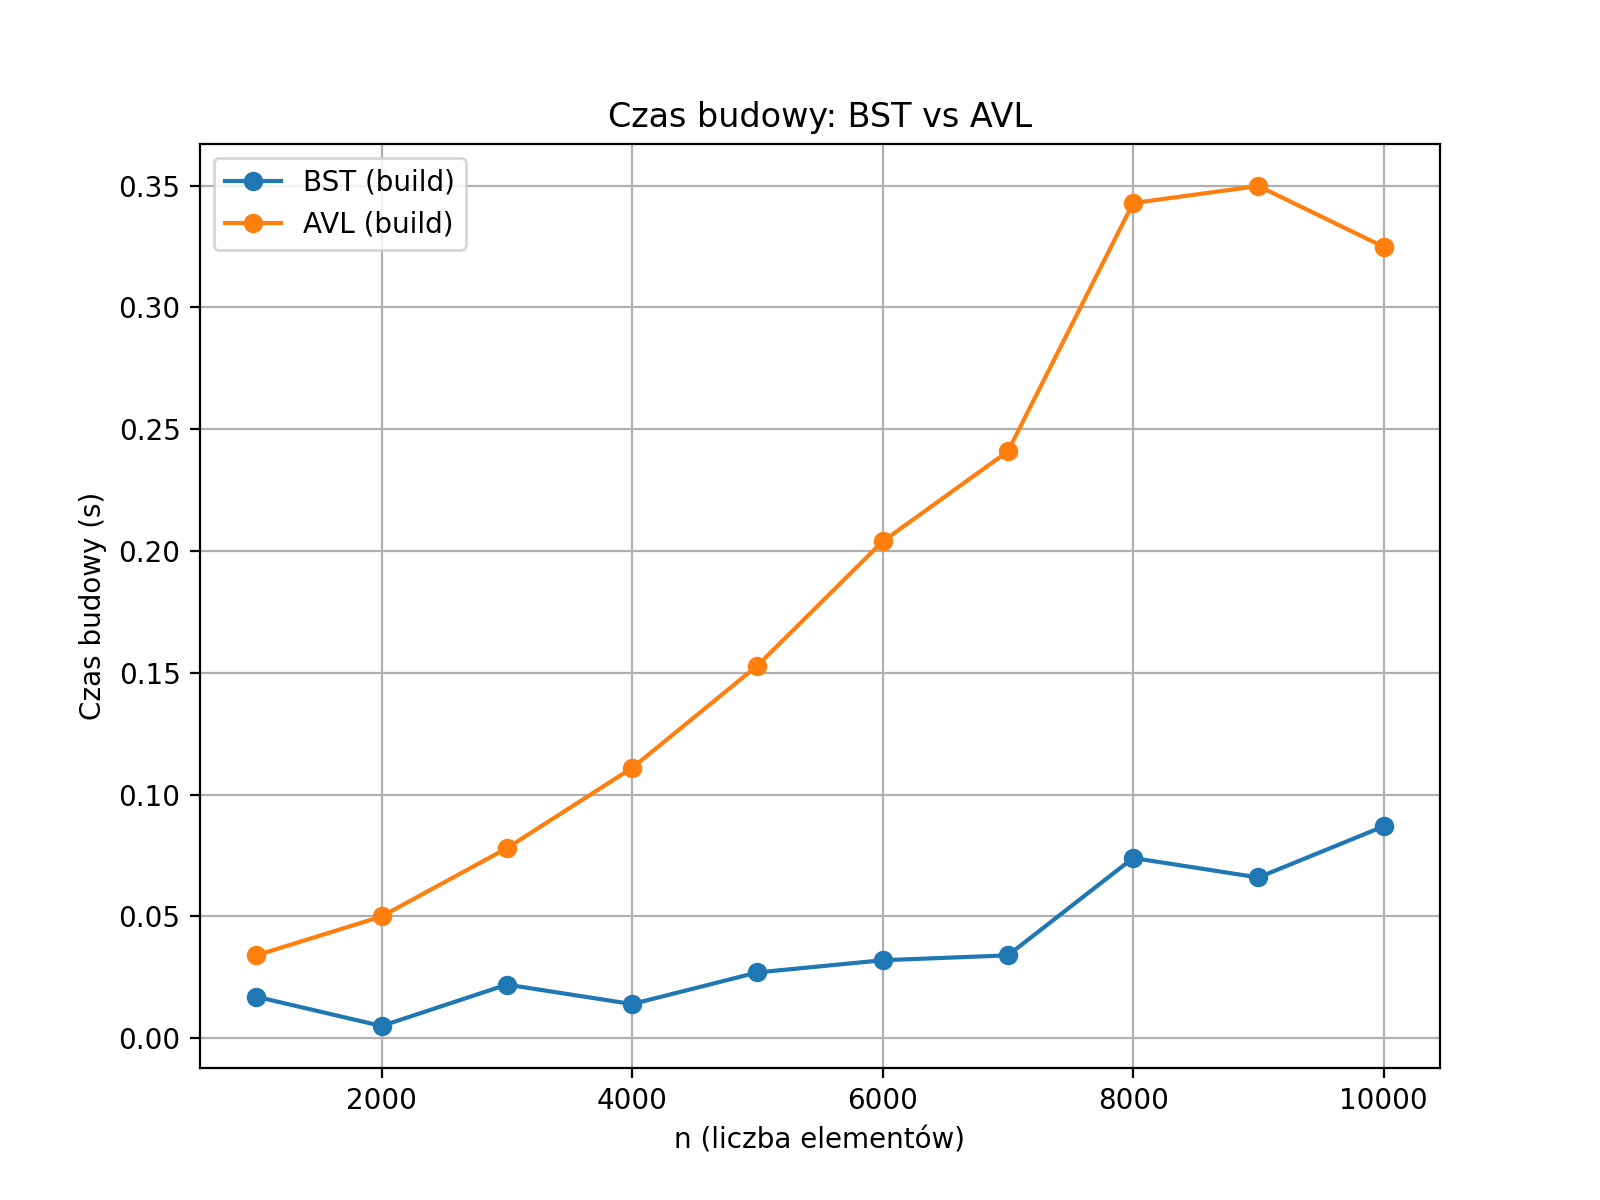
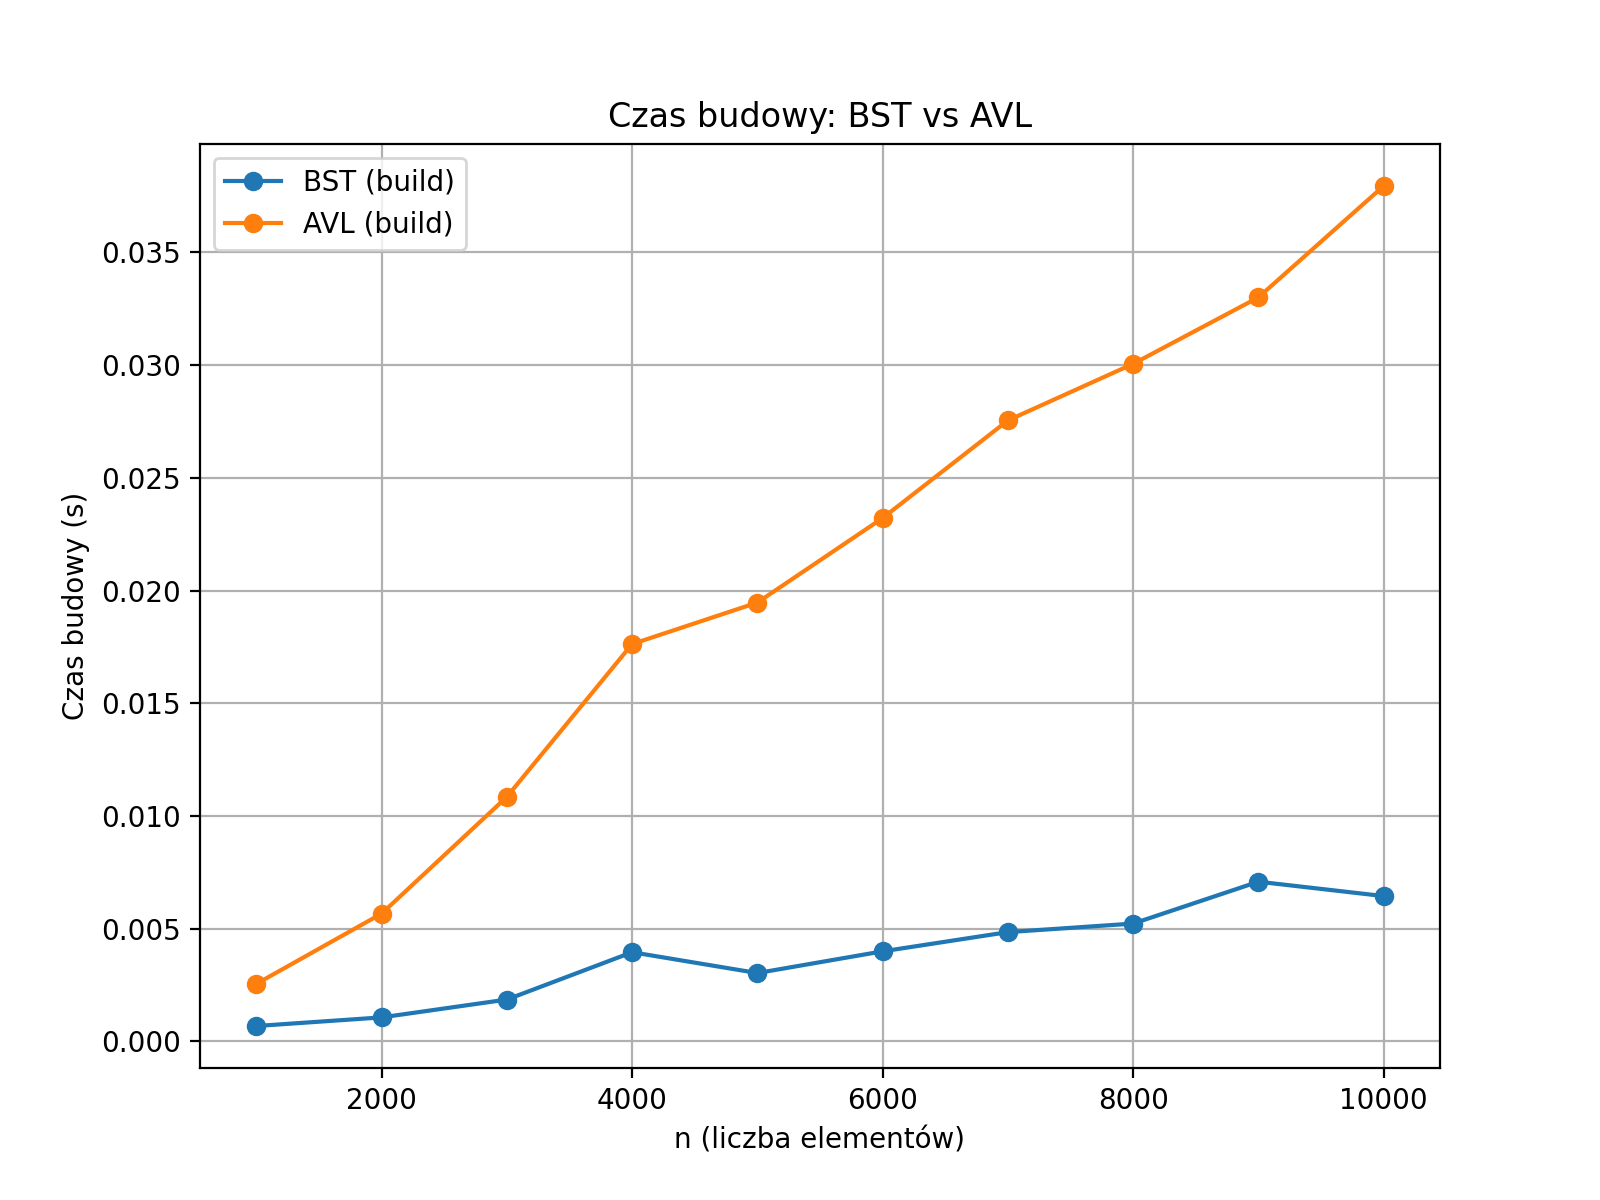
poprawa wizualizacji przykładowych drzew (display_trees_example.py i tree_visualizer.py) i komentarze do trees.py

diff --git a/LAB4_DRZEWA/trees.py b/LAB4_DRZEWA/trees.py
@@ -5,51 +5,57 @@
 
 from collections import deque
 
+# ------------------------------
+#           B S T   
+# ------------------------------
+
 class BSTNode:
     __slots__ = ("key", "left", "right")
     def __init__(self, key):
-        self.key = key
-        self.left = None
-        self.right = None
+        self.key = key          # wartość klucza (porównujemy wg niego)
+        self.left = None        # wskaźnik na lewe poddrzewo
+        self.right = None       # wskaźnik na prawe poddrzewo
 
 class BST:
     def __init__(self):
-        self.root = None
+        self.root = None        # korzeń drzewa
 
-    # wstawianie (iteracyjnie)
+    # wstawianie iteracyjne do BST
+    # zasada: mniejsze na lewo, większe/ równe na prawo
     def insert(self, key):
-        if self.root is None:
+        if self.root is None:   # przypadek gdy drzewo jest puste
             self.root = BSTNode(key)
             return
         cur = self.root
         while True:
-            if key < cur.key:
+            if key < cur.key:   # idziemy w lewo
                 if cur.left is None:
                     cur.left = BSTNode(key)
                     return
                 cur = cur.left
-            else:
+            else:               # idziemy w prawo (duplikaty też tu)
                 if cur.right is None:
                     cur.right = BSTNode(key)
                     return
                 cur = cur.right
 
-    # wyszukiwanie (zwraca True/False)
+    # wyszukiwanie wartości w drzewie
     def search(self, key):
         cur = self.root
         while cur:
             if key == cur.key:
-                return True
+                return True     # znaleziono!
             elif key < cur.key:
-                cur = cur.left
+                cur = cur.left  # szukamy w lewym poddrzewie
             else:
-                cur = cur.right
-        return False
+                cur = cur.right # szukamy w prawym poddrzewie
+        return False            # nie ma klucza w drzewie
 
-    # usuwanie elementu (standardowy algorytm)
+    # usuwanie elementu – wywołuje rekurencyjną pomocniczą funkcję
     def delete(self, key):
         self.root = self._delete_rec(self.root, key)
 
+    # klasyczny algorytm usuwania z BST
     def _delete_rec(self, node, key):
         if node is None:
             return None
@@ -58,55 +64,30 @@ class BST:
         elif key > node.key:
             node.right = self._delete_rec(node.right, key)
         else:
-            # node to delete
+            # przypadek: znaleziono node do usunięcia
+            # 1) brak dzieci
             if node.left is None and node.right is None:
                 return None
+            # 2) jedno dziecko
             if node.left is None:
                 return node.right
             if node.right is None:
                 return node.left
-            # two children: find successor (min in right subtree)
+            # 3) dwoje dzieci: bierzemy następnika (minimum z prawego poddrzewa)
             succ = node.right
             while succ.left:
                 succ = succ.left
-            node.key = succ.key
+            node.key = succ.key  # podmieniamy klucz na następnika
             node.right = self._delete_rec(node.right, succ.key)
         return node
 
-    # display: sideways (root on left)
-    def display_sideways(self, node=None, indent=0):
-        if node is None:
-            node = self.root
-        def _rec(n, level):
-            if n is None:
-                return
-            _rec(n.right, level + 1)
-            print("    " * level + str(n.key))
-            _rec(n.left, level + 1)
-        _rec(node, indent)
 
-    # display: level-order list of lists
-    def display_levels(self):
-        res = []
-        if not self.root:
-            print("Empty")
-            return
-        q = deque([self.root])
-        while q:
-            level_size = len(q)
-            level = []
-            for _ in range(level_size):
-                n = q.popleft()
-                level.append(n.key)
-                if n.left:
-                    q.append(n.left)
-                if n.right:
-                    q.append(n.right)
-            res.append(level)
-        for lvl in res:
-            print(lvl)
-            
-			
+
+
+
+# ------------------------------
+#        A V L
+# ------------------------------
 
 class AVLNode:
     __slots__ = ("key", "left", "right", "height")
@@ -114,39 +95,46 @@ class AVLNode:
         self.key = key
         self.left = None
         self.right = None
-        self.height = 1
+        self.height = 1          # każdy node startuje z wysokością 1
 
 class AVL:
     def __init__(self):
         self.root = None
 
-    # helper height
+    # pomocnicza: zwraca wysokość node (lub 0 gdy None)
     def _height(self, n):
         return n.height if n else 0
 
-    # rotations
+    # ROTACJA PRAWOSTRONNA (LL case)
+    # naprawia sytuację gdy lewe poddrzewo za wysokie
     def _rotate_right(self, y):
         x = y.left
         T2 = x.right
+        # obrót
         x.right = y
         y.left = T2
+        # aktualizacja wysokości po obrocie
         y.height = 1 + max(self._height(y.left), self._height(y.right))
         x.height = 1 + max(self._height(x.left), self._height(x.right))
-        return x
+        return x                # NOWY KORZEŃ PODDRZEWA
 
+    # ROTACJA LEWOSTRONNA (RR case)
     def _rotate_left(self, x):
         y = x.right
         T2 = y.left
         y.left = x
         x.right = T2
+        # aktualizacja wysokości
         x.height = 1 + max(self._height(x.left), self._height(x.right))
         y.height = 1 + max(self._height(y.left), self._height(y.right))
         return y
 
+    # obliczanie współczynnika zbalansowania:
+    # wysokość lewe - wysokość prawe
     def _balance_factor(self, n):
         return self._height(n.left) - self._height(n.right) if n else 0
 
-    # recursive insert with balancing
+    # rekurencyjne wstawianie + balansowanie po każdym insert
     def insert(self, key):
         self.root = self._insert_rec(self.root, key)
 
@@ -158,27 +146,31 @@ class AVL:
         else:
             node.right = self._insert_rec(node.right, key)
 
+        # aktualizacja wysokości
         node.height = 1 + max(self._height(node.left), self._height(node.right))
+
+        # sprawdzamy balans
         bf = self._balance_factor(node)
 
-        # Left Left
+        # 4 przypadki rotacji AVL:
+        # 1⃣ Left Left
         if bf > 1 and key < node.left.key:
             return self._rotate_right(node)
-        # Right Right
+        # 2⃣ Right Right
         if bf < -1 and key > node.right.key:
             return self._rotate_left(node)
-        # Left Right
+        # 3⃣ Left Right
         if bf > 1 and key > node.left.key:
             node.left = self._rotate_left(node.left)
             return self._rotate_right(node)
-        # Right Left
+        # 4⃣ Right Left
         if bf < -1 and key < node.right.key:
             node.right = self._rotate_right(node.right)
             return self._rotate_left(node)
 
         return node
 
-    # search
+    # wyszukiwanie identycznie jak w BST
     def search(self, key):
         cur = self.root
         while cur:
@@ -189,37 +181,4 @@ class AVL:
             else:
                 cur = cur.right
         return False
-
-    # display: similar to BST
-    def display_sideways(self, node=None, indent=0):
-        if node is None:
-            node = self.root
-        def _rec(n, level):
-            if n is None:
-                return
-            _rec(n.right, level + 1)
-            print("    " * level + f"{n.key} (h={n.height})")
-            _rec(n.left, level + 1)
-        _rec(node, indent)
-
-    def display_levels(self):
-        res = []
-        if not self.root:
-            print("Empty")
-            return
-        q = deque([self.root])
-        while q:
-            level_size = len(q)
-            level = []
-            for _ in range(level_size):
-                n = q.popleft()
-                level.append((n.key, n.height))
-                if n.left:
-                    q.append(n.left)
-                if n.right:
-                    q.append(n.right)
-            res.append(level)
-        for lvl in res:
-            print(lvl)
-
 

diff --git a/LAB4_DRZEWA/tree_visualizer.py b/LAB4_DRZEWA/tree_visualizer.py
@@ -1,0 +1,50 @@
+
+def display_tree(tree):
+    if not tree.root:
+        print("Empty tree.")
+        return
+
+    lines, *_ = _display_aux(tree.root)
+    for line in lines:
+        print(line)
+
+def _display_aux(node):
+    """Funkcja pomocnicza generująca ASCII-art."""
+    if node.right is None and node.left is None:
+        line = str(node.key)
+        width = len(line)
+        height = 1
+        middle = width // 2
+        return [line], width, height, middle
+
+    if node.right is None:
+        lines, n, p, x = _display_aux(node.left)
+        s = str(node.key)
+        u = len(s)
+        first_line = (x + 1) * ' ' + (n - x - 1) * ' ' + s
+        second_line = x * ' ' + '/' + (n - x - 1 + u) * ' '
+        shifted_lines = [line + u * ' ' for line in lines]
+        return [first_line, second_line] + shifted_lines, n + u, p + 2, n + u // 2
+
+    if node.left is None:
+        lines, n, p, x = _display_aux(node.right)
+        s = str(node.key)
+        u = len(s)
+        first_line = s + x * ' ' + (n - x) * ' '
+        second_line = (u) * ' ' + '\\' + (n - x - 1) * ' '
+        shifted_lines = [u * ' ' + line for line in lines]
+        return [first_line, second_line] + shifted_lines, n + u, p + 2, u // 2
+
+    left, n, p, x = _display_aux(node.left)
+    right, m, q, y = _display_aux(node.right)
+    s = str(node.key)
+    u = len(s)
+    first_line = (x + 1) * ' ' + (n - x - 1) * ' ' + s + y * ' ' + (m - y) * ' '
+    second_line = x * ' ' + '/' + (n - x - 1 + u + y) * ' ' + '\\' + (m - y - 1) * ' '
+    if p < q:
+        left += [n * ' '] * (q - p)
+    elif q < p:
+        right += [m * ' '] * (p - q)
+    zipped_lines = zip(left, right)
+    lines = [a + u * ' ' + b for a, b in zipped_lines]
+    return [first_line, second_line] + lines, n + m + u, max(p, q) + 2, n + u // 2

diff --git a/LAB4_DRZEWA/display_trees_example.py b/LAB4_DRZEWA/display_trees_example.py
@@ -1,14 +1,21 @@
-from trees import BST
-from trees import AVL
+from trees import BST, AVL
+from tree_visualizer import display_tree  # zmieniona nazwa modułu
 
-print("BST EXAMPLE")
+numbers = [10, 20, 30, 40, 50, 60, 70, 80, 90]
+
+
+print("===== BST EXAMPLE =====")
 bst = BST()
-for x in [10, 5, 20, 3, 7, 15, 30]:
+for x in numbers:
     bst.insert(x)
-bst.display_sideways()   # screenshot tego
 
-print("\nAVL EXAMPLE")
+print("\nStruktura drzewa BST:")
+display_tree(bst)   # ASCII-art wizualizacja
+
+print("\n===== AVL EXAMPLE =====")
 avl = AVL()
-for x in [10, 5, 20, 3, 7, 15, 30]:
+for x in numbers:
     avl.insert(x)
-avl.display_sideways()    # screenshot tego
+
+print("\nStruktura drzewa AVL:")
+display_tree(avl)   # ASCII-art wizualizacja
